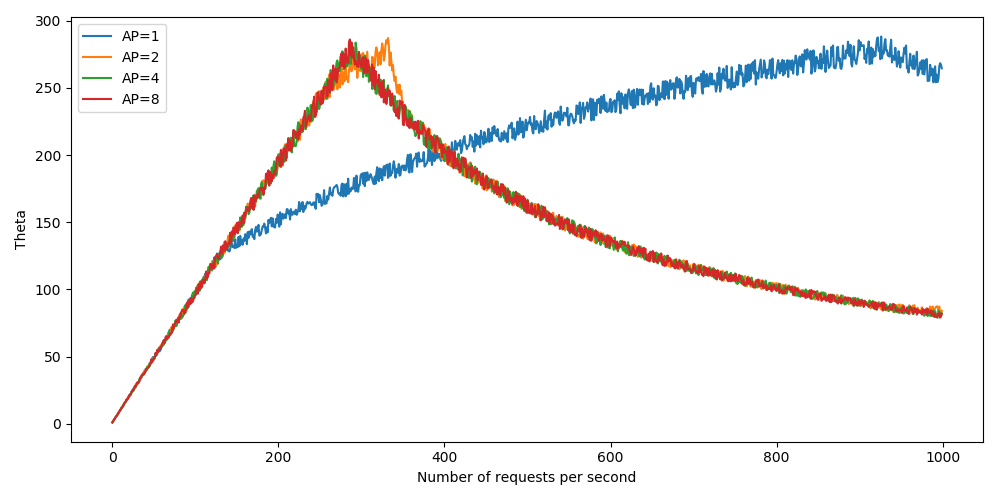
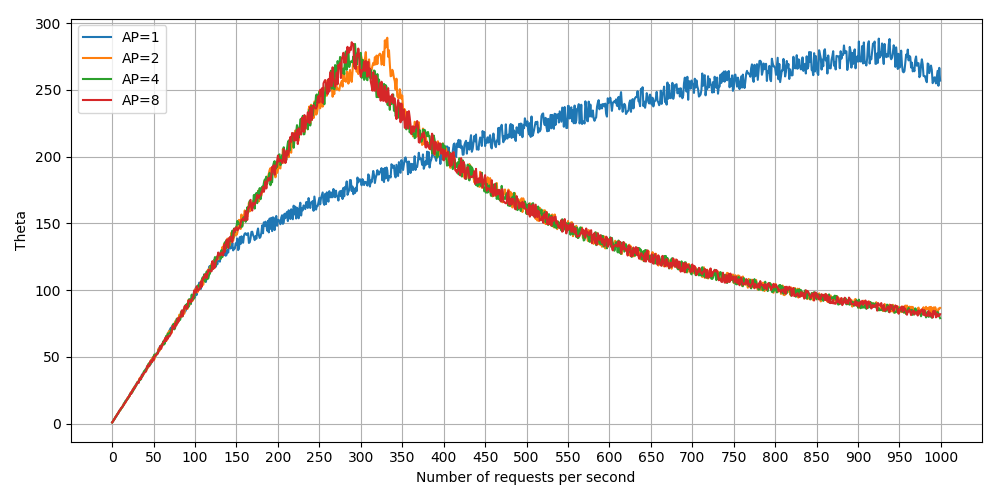
modified plot for q3 to match q4 style

diff --git a/hw1.py b/hw1.py
@@ -51,28 +51,20 @@ def q1_plot_variability(num_sim):
     plt.tight_layout()
     fig.savefig('q1_variability.png')
 
-def q3_doubling_access_points(power=4):
+def q3_doubling_access_points(data, access_points=[1,2,4,8]):
     '''Plot the effect of doubling the number of access points only.'''
 
-    data = []
-    for i in tqdm(range(1,1001)):
-        access_points_data = []
-        for j in range(power):
-            access_points_data.append(get_values(i,1*2**j,1)[0])
-        data.append(access_points_data)
-
-    data = np.array(data)
-
     fig, ax = plt.subplots(1, 1, figsize=(10,5))
-    for i in range(power):
-        ax.plot(data[:,i], label='AP={}'.format(2**i))
+    for ap in access_points:
+        ax.plot(data[:,ap-1,0], label='AP={}'.format(ap))
     
     plt.legend()
+    plt.xticks(np.linspace(0,1000,21))
     plt.xlabel('Number of requests per second')
     plt.ylabel('Theta')
+    plt.grid()
     plt.tight_layout()
     fig.savefig('q3_doubling_ap.png')
-
 
 def q2_plot_response_values():
 
@@ -246,11 +238,11 @@ if __name__ == '__main__':
 
     # q1_plot_variability(num_sim=100)
     # q2_plot_response_values()
-    # q3_doubling_access_points()
-    # data = np.load('data.npy')
+    data = np.load('data.npy')
+    q3_doubling_access_points(data)
     # q4_plot_ap_s(data=data, access_points=list(range(1,11)), servers=[2])
     # q4_plot_ap_s(data=data, access_points=[1], servers=list(range(1,11)))
     # q4_engineering_rule(num_sim=100)
-    q4_plot(np.load('er_data_sim.npy'))
+    # q4_plot(np.load('er_data_sim.npy'))
     # q4_brute_force(10)
     # q4_plot(np.load('er_brute_force.npy'))
